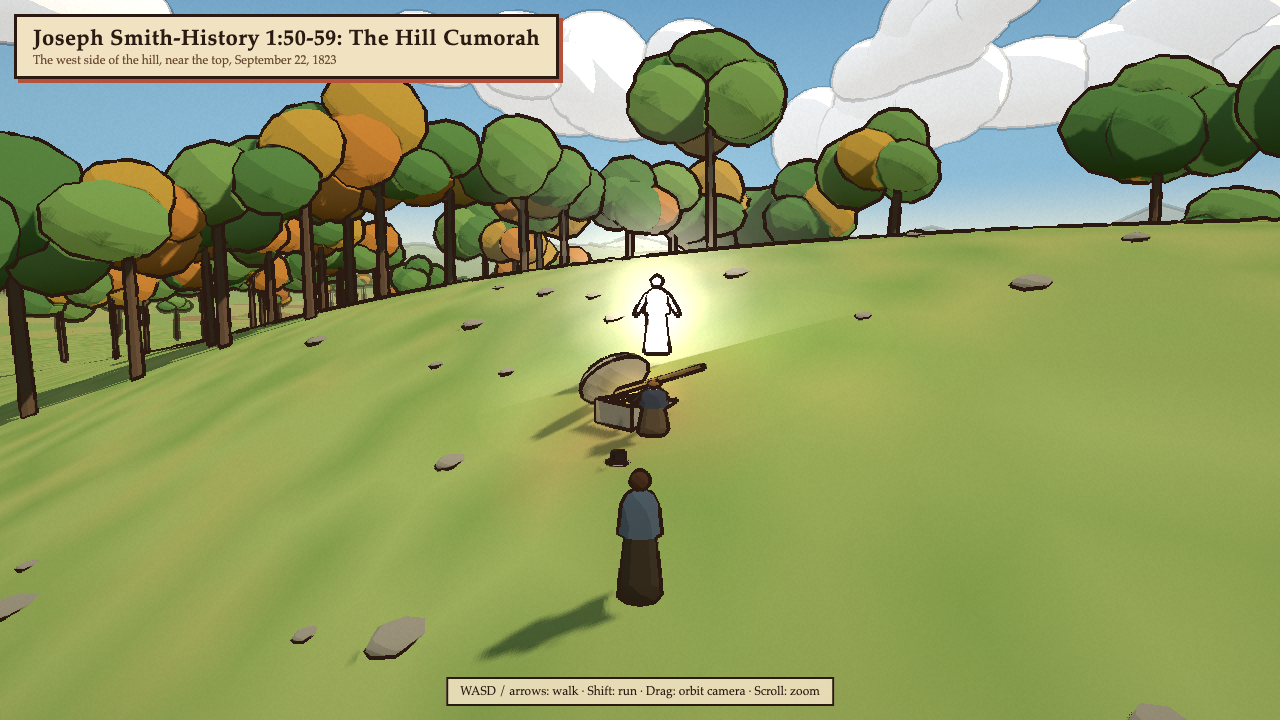
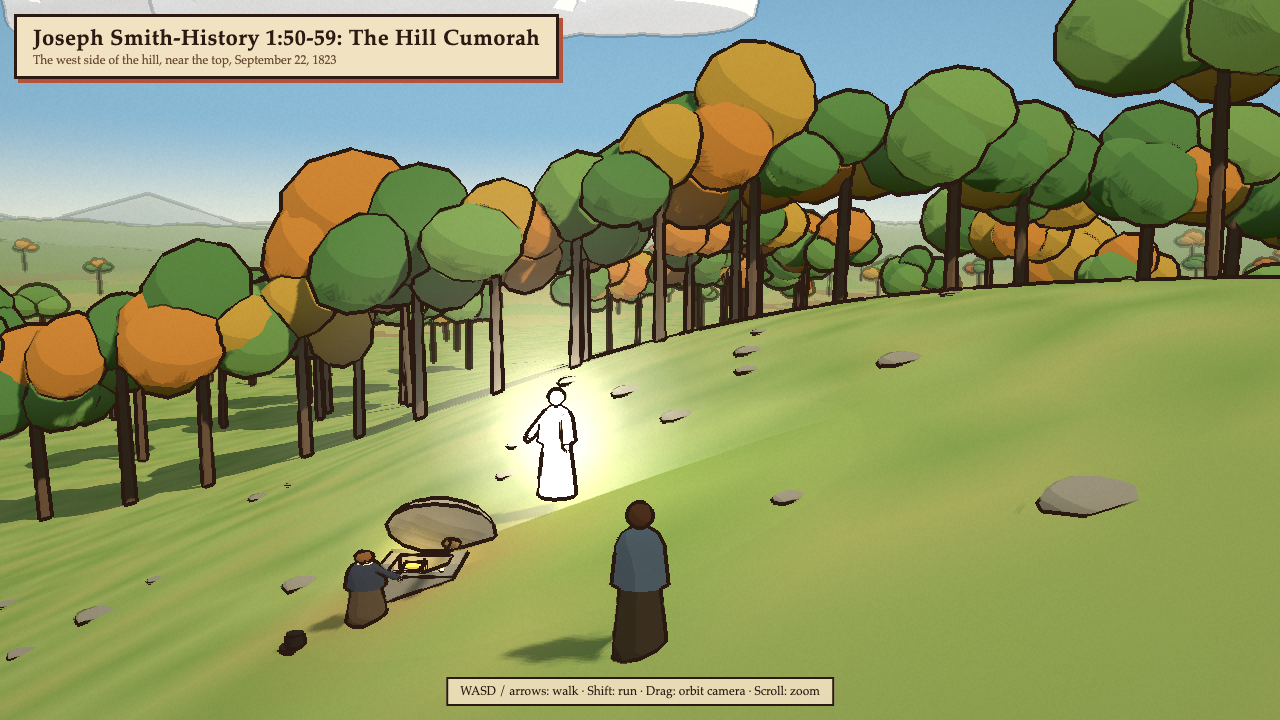
feat: polish toon scenes pgp-07 to pgp-11

diff --git a/styles/toon/scenes/pgp-11.js b/styles/toon/scenes/pgp-11.js
@@ -2,13 +2,14 @@
 // x is east, z is south. The river flows east along the north edge of the clearing.
 import * as THREE from 'three';
 import { FX_LAYER } from '../engine/renderer.js';
-import { ball, baseStyle, box, glow, groundSpec, heavenly, lightCone, makeRng, mesh, scatter, scatterBits, settler, trees } from './lib/pgp-07-kit.js';
+import { glowTexture } from '../engine/textures.js';
+import { arms, ball, baseStyle, box, glow, groundSpec, heavenly, lightCone, makeRng, mesh, scatter, scatterBits, setArm, settler, trees } from './lib/pgp-07-kit.js';
 
 const WATER_Y = 0.45;
-const JOHN = [0, -1.4];
-const JOSEPH = [-0.6, 0.15];
-const OLIVER = [0.6, 0.15];
-const START = [1.5, 7.2];
+const JOHN = [-2.4, -3.9];
+const JOSEPH = [-0.5, -6.5];
+const OLIVER = [0.65, -6.8];
+const START = [2.5, -3.5];
 
 const bankZ = (x) => -5 + 1.6 * Math.sin(x * 0.045) + 0.7 * Math.sin(x * 0.13 + 1);
 const farZ = (x) => -150 + 6 * Math.sin(x * 0.02) + 3 * Math.sin(x * 0.07);
@@ -81,7 +82,7 @@ function river(ctx) {
   const reeds = [];
   for (let i = 0; i < 260; i++) {
     const x = -120 + rng() * 240;
-    if (Math.abs(x - JOHN[0]) < 7) continue;
+    if (x > JOHN[0] - 5 && x < OLIVER[0] + 5) continue;
     const z = bankZ(x) + (rng() - 0.6) * 1.2;
     const h = 0.6 + rng() * 0.8;
     reeds.push(new THREE.ConeGeometry(0.09, h, 5).translate(x, WATER_Y * 0.5 + h / 2, z));
@@ -144,7 +145,7 @@ export default {
       spacing: 3.6,
       reject: (x, z) => z < bankZ(x) + 2.5 || clear(x, z),
     });
-    nearWoods.push([-9, -1.5, 13, 0.4], [10, -2, 14, 0.42], [-13, 6, 15, 0.45]);
+    nearWoods.push([-9, -1.5, 13, 0.4], [-13, 6, 15, 0.45]);
     trees(ctx, nearWoods, { seed: 3, leaves: ['#7fb560', '#6faa5a', '#8fbf68', '#5f9e5a', '#9cc46e'] });
     const far = [];
     for (let x = -360; x < 360; x += 6 + rng() * 6) for (let k = 0; k < 3; k++) far.push([x + rng() * 5, farZ(x) - 3 - k * 7 - rng() * 4, 11 + rng() * 6, 0.4]);
@@ -153,35 +154,49 @@ export default {
     scatterBits(ctx, { geo: new THREE.IcosahedronGeometry(1, 0), count: 60, ring: [3, 30], center: [0, -3], size: [0.2, 0.6], colors: ['#8a8574', '#9a9482', '#76705f'], seed: 4, flat: 0.55, reject: (x, z) => z < bankZ(x) - 0.4 || Math.hypot(x, z) < 3 });
     scatterBits(ctx, { geo: new THREE.ConeGeometry(0.5, 0.45, 6), count: 300, ring: [6, 60], center: [0, 6], size: [0.6, 1.1], colors: ['#5f8f3e', '#6f9f48', '#4f7f38'], seed: 6, reject: (x, z) => z < bankZ(x) + 1.5 || Math.hypot(x - START[0], z - START[1]) < 3 || Math.hypot(x, z) < 4 });
 
-    // Joseph and Oliver kneel on the bank.
-    settler(ctx, ...JOSEPH, { coat: '#3a3f4c', trousers: '#4a3a2a', hair: '#8a5a32', kneel: true, face: [JOHN[0], JOHN[1] - 0.5], arms: [0.15, 0.4] });
-    settler(ctx, ...OLIVER, { coat: '#2b2a30', trousers: '#3b3226', hair: '#2b1a12', kneel: true, face: [JOHN[0], JOHN[1] - 0.5], arms: [0.15, 0.4] });
+    // Joseph baptizes Oliver, both waist-deep in the river, shirtsleeves wet in the light.
+    const wade = WATER_Y - 0.85;
+    const joseph = settler(ctx, ...JOSEPH, { coat: '#dcc79a', trousers: '#4a3a2a', hair: '#8a5a32', shirt: '#dcc79a', y: wade, face: OLIVER, arms: [0.2, 0.5], clear: 0, scale: 1.1 });
+    setArm(arms(joseph)[0], { out: 2.7, fwd: 0.2 }, -1);
+    settler(ctx, ...OLIVER, { coat: '#a9c0d4', trousers: '#3b3226', hair: '#2b1a12', shirt: '#a9c0d4', y: wade, face: JOSEPH, arms: [0.25, 0.9], clear: 0, scale: 1.1 });
+    const ripple = new THREE.MeshBasicMaterial({ color: '#e8f6f6', transparent: true, opacity: 0.7, depthWrite: false });
+    for (const [x, z] of [JOSEPH, OLIVER]) {
+      for (const [r0, r1] of [[0.34, 0.42], [0.62, 0.68]]) {
+        const ring = new THREE.Mesh(new THREE.RingGeometry(r0, r1, 28).rotateX(-Math.PI / 2), ripple);
+        ring.position.set(x, WATER_Y + 0.02, z);
+        ring.layers.set(FX_LAYER);
+        ctx.scene.add(ring);
+      }
+    }
     mesh(ctx, [box(0.55, 0.06, 0.45, 0, 0, 0, { ry: 0.3 })], '#2b2a30', { at: [3.2, ctx.terrainHeight(3.2, 0.4) + 0.32, 0.4, 0] });
     mesh(ctx, [ball(0.6, 0, 0, 0, { sx: 1.4, sy: 0.5, seg: 8 })], '#9a9482', { at: [3.2, ctx.terrainHeight(3.2, 0.4), 0.4, 0] });
 
-    // John the Baptist in a cloud of light, his hands upon their heads.
+    // John the Baptist stands on the bank in a cloud of light, watching over the ordinance.
     const jy = ctx.terrainHeight(...JOHN) + 0.25;
-    heavenly(ctx, JOHN[0], jy, JOHN[1], { face: [0, 3], arms: [0.42, 1.05], halo: 5, light: 10, lightDistance: 14, scale: 1.1 });
-    glow(ctx, JOHN[0], jy + 1.3, JOHN[1], 12, '#fff3d0', 0.35, 0.03);
+    heavenly(ctx, JOHN[0], jy, JOHN[1], { face: [JOSEPH[0], JOSEPH[1]], arms: [0.35, 0.7], halo: 3, light: 6, lightDistance: 10, scale: 1.1 });
     glow(ctx, JOHN[0], jy + 0.1, JOHN[1], 4, '#fffaf0', 0.6, 0.05);
     const puffs = [];
     for (let i = 0; i < 7; i++) {
       const a = (i / 7) * Math.PI * 2;
-      puffs.push(ball(0.35 + rng() * 0.2, Math.sin(a) * 0.9, 0, Math.cos(a) * 0.6, { sy: 0.5, seg: 10 }));
+      puffs.push(ball(0.22 + rng() * 0.12, Math.sin(a) * 0.6, 0, Math.cos(a) * 0.45, { sy: 0.5, seg: 10 }));
     }
     mesh(ctx, puffs, '#fffaf0', { at: [JOHN[0], jy - 0.05, JOHN[1], 0], emissive: '#d8ccb0', cast: false });
+    const pool = new THREE.Mesh(new THREE.CircleGeometry(2.4, 40).rotateX(-Math.PI / 2), new THREE.MeshBasicMaterial({ map: glowTexture(), color: '#ffe6a0', transparent: true, opacity: 0.7, depthWrite: false, blending: THREE.AdditiveBlending, fog: false }));
+    pool.position.set(JOHN[0], ctx.terrainHeight(...JOHN) + 0.08, JOHN[1]);
+    pool.layers.set(FX_LAYER);
+    ctx.scene.add(pool);
     ctx.addCollider({ x: JOHN[0], z: JOHN[1], hx: 0.9, hz: 0.6, rot: 0, top: jy + 2 });
-    lightCone(ctx, JOHN[0], 40, JOHN[1] + 0.4, { top: 1.6, bottom: 3.2, height: 40 - ctx.terrainHeight(...JOHN), color: '#fff2c4', opacity: 0.1 });
+    lightCone(ctx, JOHN[0], 40, JOHN[1] - 0.2, { top: 1.0, bottom: 1.6, height: 40 - ctx.terrainHeight(...JOHN), color: '#fff2c4', opacity: 0.08 });
   },
 
   light: {
-    beams: [{ from: [0, 150, -2], to: { at: [0, -0.6], lift: 0 }, width: [9, 4], color: '#fff2c9', intensity: 0.16, layers: 3, stripes: 18, fadeLow: 0.03 }],
-    rings: [{ at: [0, -0.6], lift: 0, radius: 2.8, width: 0.3, height: 1.8, color: '#ffe9a8', intensity: 0.7, wallIntensity: 0.3 }],
+    beams: [{ from: [JOHN[0], 150, JOHN[1] - 1], to: { at: [JOHN[0], JOHN[1] - 0.6], lift: 0 }, width: [5, 2.4], color: '#fff2c9', intensity: 0.12, layers: 3, stripes: 18, fadeLow: 0.03 }],
   },
 
   player: {
+    fov: 44,
     start: START,
-    lookAt: [0, -1.5],
+    lookAt: [1.9, -8.8],
     colors: { robe: '#3b3226', mantle: '#5a4a3a', skin: '#d9a77c', hair: '#4a3020', sash: '#2b1a12' },
   },
 };

diff --git a/styles/toon/scenes/pgp-07.js b/styles/toon/scenes/pgp-07.js
@@ -2,15 +2,23 @@
 // x is east, z is south. The clearing is north of the start, the pillar of light falls on Joseph.
 import { arms, baseStyle, cyl, glow, groundSpec, heavenly, lightCone, makeRng, mesh, scatter, scatterBits, setArm, settler, trees, box } from './lib/pgp-07-kit.js';
 import * as THREE from 'three';
+import { FX_LAYER } from '../engine/renderer.js';
+import { glowTexture } from '../engine/textures.js';
 
 const JOSEPH = [0, -8];
 const CLEARING = [0, -9];
 const FATHER = [-1.0, -11.2];
 const SON = [1.0, -11.2];
 const LIFT = 2.8;
-const START = [2.2, 3];
+const START = [3.1, -8.6];
 
 const inClearing = (x, z) => Math.hypot(x - CLEARING[0], (z - CLEARING[1]) * 0.9) < 8.5;
+const VIEW = [5.6, -0.5];
+const behindVision = (x, z) => {
+  const ax = x - VIEW[0], az = z - VIEW[1], bx = -VIEW[0], bz = FATHER[1] - VIEW[1];
+  const cos = (ax * bx + az * bz) / Math.hypot(ax, az) / Math.hypot(bx, bz);
+  return cos > 0.975 && Math.hypot(ax, az) > 6;
+};
 const onPath = (x, z) => z > -2 && Math.abs(x - START[0] * 0.6 - Math.sin(z * 0.08) * 2) < 2.2;
 
 export default {
@@ -32,16 +40,16 @@ export default {
   sun: {
     dir: [0.45, 0.8, -0.35],
     color: '#fff3dc',
-    intensity: 2.2,
-    hemi: { sky: '#e6f2e2', ground: '#8f9a5a', intensity: 1.5 },
+    intensity: 1.7,
+    hemi: { sky: '#e6f2e2', ground: '#8f9a5a', intensity: 1.2 },
     shadowSize: 60,
   },
 
   ground: groundSpec({
-    sand: '#a3a65e',
-    dirt: '#93804e',
-    grass: '#8fb05a',
-    grassDark: '#6f9046',
+    sand: '#9fb060',
+    dirt: '#8c8a52',
+    grass: '#8fbc5c',
+    grassDark: '#6f9a48',
     hill: '#6f8a54',
   }, { flatRadius: 200, undulation: 0.45 }),
 
@@ -57,9 +65,9 @@ export default {
       height: [15, 23],
       radius: [0.28, 0.5],
       spacing: 3.2,
-      reject: (x, z) => inClearing(x, z) || onPath(x, z),
+      reject: (x, z) => inClearing(x, z) || onPath(x, z) || behindVision(x, z),
     });
-    near.push([-6.5, 6, 18, 0.45], [9, 4, 19, 0.5], [-9.5, -2, 17, 0.42], [8.5, -17, 20, 0.5], [-7, -18, 18, 0.45]);
+    near.push([-6.5, 6, 18, 0.45], [-9.5, -2, 17, 0.42], [8.5, -17, 20, 0.5]);
     trees(ctx, near, { trunk: '#76644f', leaves: ['#7fb560', '#6faa5a', '#8fbf68', '#5f9e5a'], canopy: 0.26, seed: 4 });
 
     // Undergrowth and spring flowers on the grove floor.
@@ -79,7 +87,7 @@ export default {
     ctx.addCollider({ x: stump[0], z: stump[1], hx: 0.6, hz: 0.6, rot: 0, top: gy(...stump) + 0.82 });
 
     // Joseph kneels in prayer, looking up into the light.
-    settler(ctx, JOSEPH[0], JOSEPH[1], { coat: '#9fb3c4', trousers: '#4a3a2a', hair: '#9a6a3a', shirt: '#ece4cf', scale: 1.0, kneel: true, face: [0, -14], arms: [0.3, 0.6] });
+    settler(ctx, JOSEPH[0], JOSEPH[1], { coat: '#2a4566', trousers: '#3a2c20', hair: '#8a5a2e', shirt: '#f4ecd8', scale: 1.15, kneel: true, face: [0, -14], arms: [0.3, 0.6] });
 
     // The Father and the Son stand above him in the air.
     const fy = gy(...FATHER) + LIFT;
@@ -91,9 +99,13 @@ export default {
     glow(ctx, 0, fy + 0.1, -11.2, 7, '#fff8e0', 0.7, 0.05);
 
     // The pillar of light, brighter than the sun, resting on Joseph.
-    lightCone(ctx, 0, 60, -9.6, { top: 2.4, bottom: 4.4, height: 60 - gy(...JOSEPH), color: '#fff2c4', opacity: 0.09 });
-    lightCone(ctx, 0, 60, -9.6, { top: 1.4, bottom: 2.8, height: 60 - gy(...JOSEPH), color: '#fffbe8', opacity: 0.1 });
-    const p = new THREE.PointLight('#fff2d0', 30, 22, 1.3);
+    lightCone(ctx, 0, 60, -9.6, { top: 1.6, bottom: 3, height: 60 - gy(...JOSEPH), color: '#fff6d8', opacity: 0.07 });
+    // Warm pool of light on the ground around Joseph, drawn under him so it never veils his figure.
+    const pool = new THREE.Mesh(new THREE.CircleGeometry(3.6, 40).rotateX(-Math.PI / 2), new THREE.MeshBasicMaterial({ map: glowTexture(), color: '#ffe6a0', transparent: true, opacity: 0.75, depthWrite: false, blending: THREE.AdditiveBlending, fog: false }));
+    pool.position.set(JOSEPH[0], gy(...JOSEPH) + 0.06, JOSEPH[1] - 0.6);
+    pool.layers.set(FX_LAYER);
+    ctx.scene.add(pool);
+    const p = new THREE.PointLight('#fff2d0', 3, 22, 1.3);
     p.position.set(0, fy + 1.2, -10);
     ctx.scene.add(p);
   },
@@ -102,14 +114,14 @@ export default {
     rayFans: [
       { source: [40, 90, 30], sourceJitter: 30, target: [0, -10], groundY: 0, spread: [8, 40], count: 7, width: [[1.5, 3], [2.5, 5]], color: '#fff6d8', intensity: 0.16, stripes: 7, fadeLow: 0.3 },
     ],
-    beams: [{ from: [0, 160, -9.8], to: { at: [0, -9.6], lift: 0 }, width: [12, 5], color: '#fff2c9', intensity: 0.17, layers: 3, stripes: 22, fadeLow: 0.03 }],
-    rings: [{ at: JOSEPH, lift: 0, radius: 3.4, width: 0.35, height: 2.2, color: '#ffe9a8', intensity: 0.8, wallIntensity: 0.35 }],
-    glows: [{ at: JOSEPH, lift: 0.8, size: 6, color: '#fff0c0', opacity: 0.4 }],
+    beams: [{ from: [0, 160, -11.6], to: { at: [0, -11.4], lift: 0 }, width: [10, 3.4], color: '#fff2c9', intensity: 0.13, layers: 3, stripes: 22, fadeLow: 0.03 }],
+    rings: [{ at: [0, -11.6], lift: 0, radius: 2.4, width: 0.3, height: 2.2, color: '#ffe9a8', intensity: 0.8, wallIntensity: 0.3 }],
+    glows: [{ at: JOSEPH, lift: 0.2, size: 4, color: '#fff0c0', opacity: 0.2 }],
   },
 
   player: {
     start: START,
-    lookAt: [0, -10],
+    lookAt: [1.5, -13.6],
     colors: { robe: '#3b3226', mantle: '#4a5a6a', skin: '#d9a77c', hair: '#4a3020', sash: '#2b1a12' },
   },
 };

diff --git a/styles/toon/scenes/pgp-10.js b/styles/toon/scenes/pgp-10.js
@@ -7,7 +7,7 @@ const W = 5;
 const N = -4.5;
 const S = 6;
 const CEIL = 3.4;
-const START = [-0.6, 2.8];
+const START = [2.2, 2.4];
 
 // Horizontal logs along one wall, skipping window and door openings. axis 'x' runs along x at fixed z.
 function logWall(geos, axis, fixed, from, to, openings = []) {
@@ -178,7 +178,7 @@ export default {
 
   player: {
     start: START,
-    lookAt: [0.3, -1.6],
+    lookAt: [2.2, -2.2],
     fov: 66,
     colors: { robe: '#3b3226', mantle: '#5a4a3a', skin: '#d9a77c', hair: '#4a3020', sash: '#2b1a12' },
   },

diff --git a/styles/toon/scenes/pgp-09.js b/styles/toon/scenes/pgp-09.js
@@ -8,7 +8,7 @@ const H = 18;
 const SX = 40;
 const SZ = 110;
 const BOX = [-2, 0];
-const START = [-5.8, 4.4];
+const START = [1.6, 5.2];
 const WEST = -62;
 const EDGE_Z = 36;
 const EAST = 95;
@@ -182,7 +182,8 @@ export default {
 
   player: {
     start: START,
-    lookAt: [BOX[0] + 1, BOX[1] - 1],
+    fov: 44,
+    lookAt: [BOX[0] + 3.6, BOX[1] - 6],
     colors: { robe: '#3b3226', mantle: '#4a5a6a', skin: '#d9a77c', hair: '#4a3020', sash: '#2b1a12' },
   },
 };
